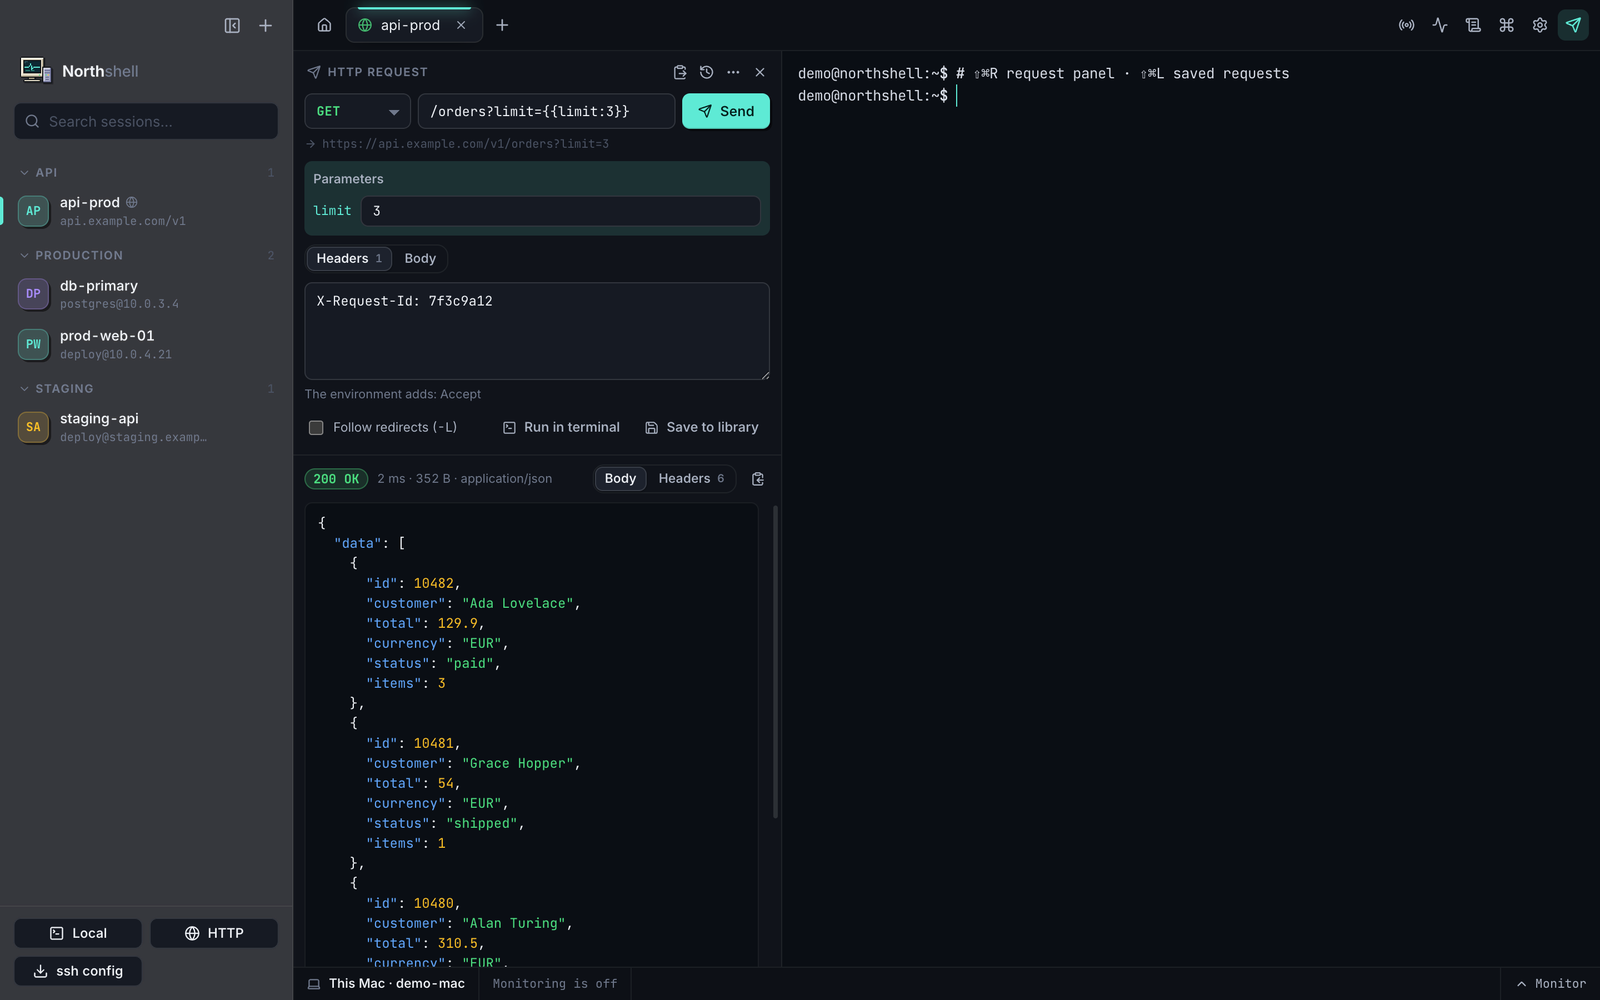
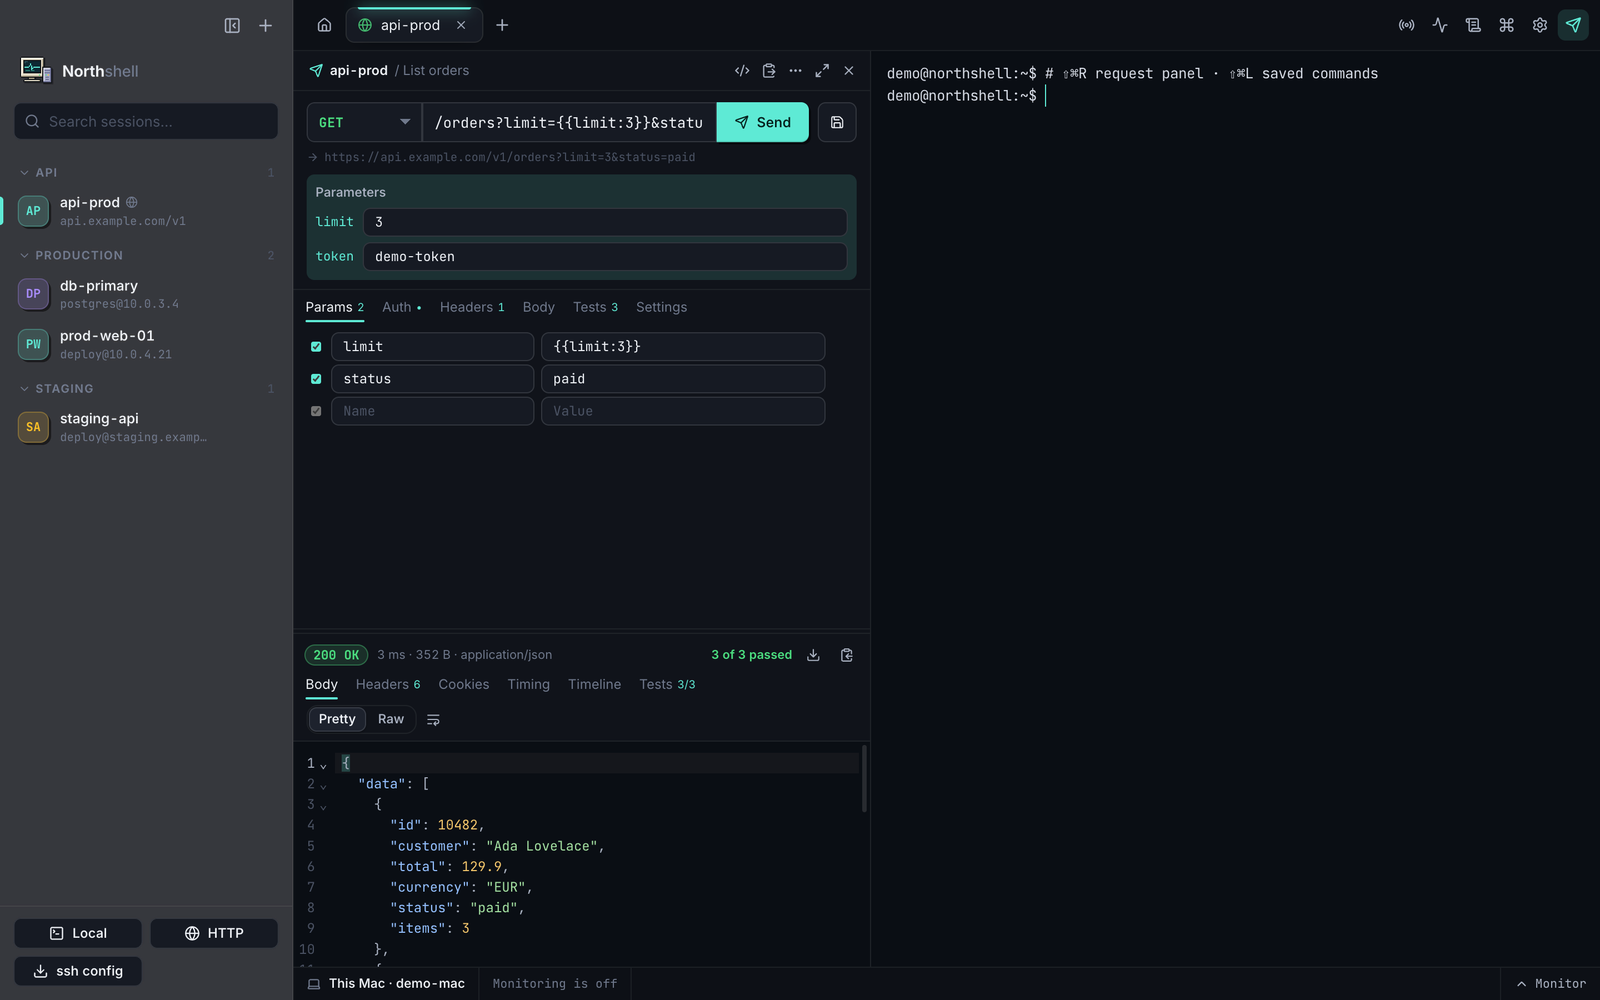
docs: README for 1.6.0 with a version history, new screenshots
- both READMEs describe the HTTP client and the monitor's new views and keep a
  version history built from the release notes
- e2e/feature-shots.mjs shows the monitor on made-up server numbers over a private
  sshd, and the HTTP workspace on seeded collections
- monitor cards: long mount points on their own line, nothing clipped when narrow

diff --git a/src/renderer/src/components/MonitorPanel.tsx b/src/renderer/src/components/MonitorPanel.tsx
@@ -12,6 +12,8 @@ import { MonitorExpanded } from './monitor/MonitorExpanded'
 import { TopCard } from './monitor/TopCard'
 import { Sparkline } from './Sparkline'
 
+const LONG_MOUNT = 8
+
 function Bar({ label, value, pct }: { label: string; value: string; pct: number }) {
   return (
     <div className={`bar-line ${levelClass(pct)}`}>
@@ -160,7 +162,7 @@ export function MonitorPanel() {
         </div>
         <Sparkline values={history.mem} max={100} height={42} color="var(--spark-2, var(--violet))" />
         {s.swapTotal > 0 && (
-          <Bar label={t('swap')} value={`${formatBytes(s.swapUsed)} / ${formatBytes(s.swapTotal)}`} pct={swapPct} />
+          <Bar label={t('swap')} value={formatBytes(s.swapUsed)} pct={swapPct} />
         )}
         <Bar label={t('memory')} value={formatPercent(memPct)} pct={memPct} />
         {pickedUsage && <UserLine user={pickedUsage.user}>{formatBytes(pickedUsage.mem)}</UserLine>}
@@ -247,7 +249,7 @@ export function MonitorPanel() {
         {s.disks.map((d) => {
           const pct = d.total > 0 ? (d.used / d.total) * 100 : 0
           return (
-            <div key={`${d.fs}${d.mount}`} className="mon-disk-row">
+            <div key={`${d.fs}${d.mount}`} className={`mon-disk-row ${d.mount.length > LONG_MOUNT ? 'stacked' : ''}`}>
               <Bar label={d.mount} value={`${formatBytes(d.used)} / ${formatBytes(d.total)}`} pct={pct} />
               {remote && <DiskOwnersLine monitorKey={monitorKey} mount={d.mount} state={owners?.[d.mount]} picked={picked} />}
             </div>

diff --git a/src/renderer/src/styles/monitor.css b/src/renderer/src/styles/monitor.css
@@ -9,8 +9,9 @@
 
 .mon-user-line {
   display: flex;
+  flex-wrap: wrap;
   align-items: center;
-  gap: 5px;
+  gap: 1px 5px;
   min-width: 0;
   padding: 3px 6px;
   border-radius: var(--radius-s);
@@ -26,16 +27,21 @@
 
 .mon-user-line b {
   margin-left: auto;
-  flex: none;
+  min-width: 0;
   font: 600 11px var(--font-mono);
   color: var(--text-0);
-  white-space: nowrap;
 }
 
 .mon-disk-row {
   display: flex;
   flex-direction: column;
   gap: 3px;
+}
+
+/* A long mount point gets its own line, or it would be cut down to "/…" next to the sizes. */
+.mon-disk-row.stacked .bar-line .top {
+  flex-direction: column;
+  gap: 1px;
 }
 
 .mon-link {
@@ -217,6 +223,10 @@
   align-items: center;
   gap: 8px;
   padding: 10px 20px;
+}
+
+.mon-toolbar .mon-user-select {
+  flex: 0 1 190px;
 }
 
 .mon-toolbar .segmented.sm button {

diff --git a/src/renderer/src/styles/panels.css b/src/renderer/src/styles/panels.css
@@ -317,8 +317,8 @@
   grid-template-columns: minmax(150px, 1.25fr) repeat(5, minmax(112px, 0.85fr)) minmax(150px, 1fr) minmax(250px, 1.45fr);
 }
 
-/* Eight cards are narrower: let "/ total" drop under the big number instead of being cut. */
-.monitor.has-gpu .mon-big {
+/* The cards are narrow: let "/ total" drop under the big number instead of being cut. */
+.monitor .mon-big {
   flex-wrap: wrap;
   row-gap: 4px;
   font-size: 23px;

diff --git a/README.md b/README.md
@@ -10,7 +10,7 @@ A free, open-source MobaXterm alternative for macOS: an SSH client and terminal 
 [![Platform](https://img.shields.io/badge/macOS-13%2B%20·%20Apple%20Silicon-555)](#requirements)
 [![License](https://img.shields.io/badge/license-MIT-555)](LICENSE)
 
-[Download](#installation) · [Features](#features) · [Screenshots](#screenshots) · [Getting started](#getting-started) · [Build from source](#building-from-source) · [Русский](README.ru.md)
+[Download](#installation) · [Features](#features) · [Screenshots](#screenshots) · [Getting started](#getting-started) · [Version history](#version-history) · [Build from source](#building-from-source) · [Русский](README.ru.md)
 
 <img src="docs/screenshots/main.png" alt="Northshell main window: sessions, SFTP browser, terminal, command library and server monitor" />
 
@@ -44,16 +44,23 @@ MobaXterm is a popular all-in-one SSH tool, but it only runs on Windows. Northsh
 
 <img src="docs/screenshots/command-library.png" width="720" alt="Command library panel next to the terminal: commands private to the connection and shared commands, with two of them already run" />
 
-**HTTP environments (curl)**
-- A connection type for APIs with no SSH at all: a local terminal prepared for repeated `curl` requests to one server.
-- `$BASE_URL` and `$TOKEN` (token kept in the Keychain) are set in the shell, and your default headers (e.g. `Authorization: Bearer $TOKEN`) are added to every `curl` automatically.
-- Optional `curl -k` for self-signed certificates; keep the environment's typical requests in its own section of the command library.
-- **HTTP request panel** (`⇧⌘R`): method, path, headers and body in a form instead of hand-written `curl` — `⌘↩` sends, and the response appears alongside with status, time, size, headers and highlighted JSON.
-- Paste a curl command (e.g. “Copy as cURL” from browser dev tools) into the address field and the form fills itself. `{{id}}` parameters are asked for right in the panel; a request can run in the terminal, be copied as curl or saved to the library and opened back in the form later.
+**HTTP client (like Postman and Insomnia, on top of curl)**
+- A connection type for APIs with no SSH at all: a request workspace that fills the window (`⇧⌘R` shows or hides it, one button puts the terminal back beside it). The terminal stays ready for hand-written `curl`: `$BASE_URL` and `$TOKEN` (token kept in the Keychain) are set, and your default headers are added to every `curl`.
+- **Requests:** query parameters, headers and form fields as tables with an on/off switch per row (or as plain text); **auth** — Bearer, Basic, API key in a header or the query; **body** — JSON, XML, text, urlencoded form, multipart form with files, a whole file, GraphQL with variables; a timeout, `-k` and redirects per request.
+- **Responses:** status, time and size, formatted body with folding and search (`⌘F`), raw view, preview of HTML (without scripts or external resources) and images, headers, cookies, a time breakdown (DNS, connect, TLS, waiting, download), curl's full log with credentials masked. Save the whole response to a file, whatever its size.
+- **Collections and history:** folders of saved requests (`⌘S`), kept per environment or shared; history you can search. Import **Postman** v2 and **Insomnia** collections, export to Postman.
+- **Variables:** `{{name}}` in any field, stored per environment, plus `{{$uuid}}`, `{{$timestamp}}`, `{{$isoTimestamp}}`, `{{$randomInt}}`. A value from a response can go into a variable — log in once, and the next requests use the token.
+- **Checks and runs:** status, time, size, header and JSON-path checks for each request, no scripting needed; run a whole folder in order and get a report.
+- **Cookies** are kept per environment like in a browser, and you can view and delete them. **Code** for curl, JavaScript fetch, Python requests and HTTPie; paste a curl command (e.g. “Copy as cURL” from dev tools) into the address field and the form fills itself.
+- The environment's headers and token go only to its own host; other hosts and redirects to them don't get them.
+
+<img src="docs/screenshots/http-workspace.png" width="720" alt="HTTP workspace: a collection of saved requests on the left, GET /orders with its query parameters, and the formatted JSON response with 3 of 3 checks passed" />
+
+<img src="docs/screenshots/http-timing.png" width="720" alt="HTTP workspace with environment variables on the left and the time breakdown of a response: DNS, connect, TLS, waiting and download" />
+
+<img src="docs/screenshots/http-request.png" width="720" alt="The request panel beside the terminal: the same request and response in a narrower column" />
 
 <img src="docs/screenshots/http-environment.png" width="720" alt="New HTTP environment dialog: base URL, token, curl headers and the SSH / HTTP switch" />
-
-<img src="docs/screenshots/http-request.png" width="720" alt="HTTP request panel: GET /orders with a {{limit}} parameter, the extra header and the highlighted JSON response next to the terminal" />
 
 **SFTP browser and editor**
 - File panel next to the terminal with breadcrumbs, sorting by name, size or date, and a resizable width.
@@ -64,12 +71,23 @@ MobaXterm is a popular all-in-one SSH tool, but it only runs on Windows. Northsh
 
 **Server monitoring**
 - Status bar with CPU, memory, video memory (GPU), disk, network, load, uptime and users for the active connection.
-- Monitor panel (`⇧⌘M`) with CPU, memory, video memory and network graphs, all disks, swap and top processes.
+- Monitor panel (`⇧⌘M`) with CPU, memory, video memory, network and **disk read/write speed** graphs, all disks and swap.
+- **Who is loading the host:** top users by CPU, RAM, disk or network right in the panel, and a user picker that shows that user's share on every card and their processes.
+- **Enlarge** (the ⤢ button) for an htop-like view: every process with sorting by any column, search, a process tree and the full command line; a table of users; and a disk page with the speed per device, who is reading and writing now, and **who takes up the space** on each volume.
+- Disk speed comes from kernel counters on every update (every 3 seconds by default), so short bursts aren't lost and it costs next to nothing. Details per process are collected only while the panel is open.
+- Space per user needs a walk over the files, so it runs when you press the button, at the lowest CPU and disk priority, and the result is kept with its time.
+- What's visible depends on the server: on Linux, reads and writes of other users' processes are visible to root only (the kernel's rule), so connect as root to see everyone; traffic per user is counted from TCP connections (`ss`), so UDP isn't in it; macOS has no per-process disk counters, so only its total speed shows.
 - Mac memory is counted like Activity Monitor's “Memory Used” (app + wired + compressed), the same for this Mac and for macOS servers.
 - Video memory: NVIDIA (`nvidia-smi`) and AMD (`amdgpu`) on Linux, and Mac GPUs. Apple Silicon shares memory with the CPU, so the GPU's share is macOS's estimate (⅔ of RAM up to 36 GB, ¾ above, or `iogpu.wired_limit_mb`), marked with “≈”.
 - No agent to install: statistics are read over the same SSH connection (Linux and macOS servers).
 
-<img src="docs/screenshots/monitor-gpu.png" width="720" alt="Monitor panel with the GPU card next to CPU and memory: Apple M1 Pro using 318 MB of about 11 GB of unified memory, and the same figure in the status bar" />
+<img src="docs/screenshots/monitor-users.png" width="720" alt="Monitor panel of a server: disk I/O card with read and write speed, volumes with their biggest owners, and users ranked by disk load" />
+
+| Who is loading the disk and who takes up the space | All processes, sorted like in htop |
+|---|---|
+| ![Disks view: speed per device, users by current reads and writes, users by space on each volume](docs/screenshots/monitor-disks.png) | ![Processes view: PID, user, CPU, memory, disk and network for every process, sorted by disk reads](docs/screenshots/monitor-processes.png) |
+
+<img src="docs/screenshots/monitor-gpu.png" width="720" alt="Monitor panel with the GPU card next to CPU and memory, and the same figure in the status bar" />
 
 **Appearance**
 - Six themes: Dark, Light, System, Visual Studio, MobaXterm and Windows 95.
@@ -156,7 +174,7 @@ Download the new DMG and drag Northshell into Applications again, replacing the 
 5. **Work with files.** Drag files from Finder onto the SFTP panel to upload, double-click a file to edit it, press `⌘S` to save. Type in the filter field and press Enter to search the whole folder tree.
 6. **Watch the server.** The status bar shows live statistics; click it or press `⇧⌘M` for the full monitor.
 7. **Save frequent commands.** Press `⇧⌘L` to open the command library, click **+**, and choose whether the command is shared or belongs to one connection. Double-click a command to run it.
-8. **Work with an HTTP API.** Click **HTTP** at the bottom of the sidebar (or `⌥⌘N`), enter a base URL, an optional token and headers, then **Save & open**. In the terminal run `curl $BASE_URL/health` — the headers are added for you.
+8. **Work with an HTTP API.** Click **HTTP** at the bottom of the sidebar (or `⌥⌘N`), enter a base URL, an optional token and headers, then **Save & open**. Type a path, press `⌘↩`, and `⌘S` saves the request to a collection. Have a Postman or Insomnia collection? Import it with the button above the list. In the terminal `curl $BASE_URL/health` works too, with the headers added for you.
 9. **Change the look.** Open **Settings → Appearance** (`⌘,`) to choose a theme and terminal colours.
 
 ## Keyboard shortcuts
@@ -167,7 +185,8 @@ Download the new DMG and drag Northshell into Applications again, replacing the 
 | New SSH session | `⌘N` |
 | New HTTP environment | `⌥⌘N` |
 | Command library | `⇧⌘L` |
-| HTTP request panel | `⇧⌘R` |
+| HTTP workspace | `⇧⌘R` |
+| Send the request / save it | `⌘↩` / `⌘S` |
 | Command palette | `⌘P` |
 | Close tab or editor | `⌘W` |
 | Switch tab | `⌘1` … `⌘9`, `⌃Tab`, `⌃⇧Tab` |
@@ -185,8 +204,10 @@ Download the new DMG and drag Northshell into Applications again, replacing the 
 - Remote commands for monitoring and search are fixed scripts with quoted arguments; a server-side search stops on its own after 13 seconds.
 - SFTP downloads never overwrite existing files and reject unsafe names; deleting a symlink never touches its target.
 - HTTP environments write their curl headers to a private temporary folder (owner-only permissions) that is deleted when the tab closes.
+- The environment's token never reaches the interface or curl's command line, and the request log masks credentials. Collections, variables and cookies are stored owner-only but **not encrypted**, so keep secrets in `$TOKEN`; a token typed into a form is saved as typed.
+- A collection file or a pasted curl command cannot choose a local file to send: the file has to be picked by hand.
 
-App data lives in `~/Library/Application Support/Northshell/` (`sessions.json`, `commands.json`, `settings.json`, `known_hosts.json`).
+App data lives in `~/Library/Application Support/Northshell/` (`sessions.json`, `commands.json`, `settings.json`, `known_hosts.json`, `http-workspace.json`, `http-cookies/`).
 
 ## Northshell and other SSH clients for Mac
 
@@ -211,7 +232,10 @@ Yes. It is open source under the MIT license, with no account, subscription or t
 The published build is for Apple Silicon. Intel Macs can build it from source; a universal build is not published yet.
 
 **Do I need to install anything on my servers?**
-No. Monitoring uses standard commands (`/proc` on Linux, `sysctl` and `vm_stat` on macOS) over the existing SSH connection. SFTP needs the usual `sftp-server`, which is part of OpenSSH.
+No. Monitoring uses standard commands (`/proc`, `ps` and `ss` on Linux; `sysctl`, `vm_stat` and `nettop` on macOS) over the existing SSH connection. SFTP needs the usual `sftp-server`, which is part of OpenSSH.
+
+**Does it replace Postman or Insomnia?**
+For everyday work with one API, yes: collections, variables, auth, every body type, checks, folder runs, cookies, and import of their collections. See [Limitations](#limitations) for what it doesn't do. Everything stays on your Mac, with no account.
 
 **Which authentication methods are supported?**
 Passwords, private keys (OpenSSH, with or without a passphrase), ssh-agent and keyboard-interactive prompts such as one-time codes. Hosts from `~/.ssh/config` can be imported.
@@ -230,6 +254,42 @@ The app is not notarized by Apple. See [First launch](#first-launch) for the one
 - Apple Silicon build only; not signed or notarized by Apple.
 - No X11 forwarding, RDP, VNC, serial connections, port forwarding or jump hosts yet.
 - Server monitoring supports Linux and macOS hosts; on BusyBox-only systems some values may be missing.
+- The HTTP client has checks and value capture instead of JavaScript scripts, and has no OAuth 2 sign-in flows, WebSocket or gRPC requests, mock servers or cloud sync.
+
+## Version history
+
+### 1.6.0 — 2026-11-05
+- **Disk speed:** reads and writes per host and device, with a graph in the monitor panel.
+- **Who is loading the host:** top users by CPU, RAM, disk and network, and a user picker in the monitor.
+- **Enlarged monitor:** an htop-like process table with sorting, search and a tree; a table of users; a disk page with current reads and writes per user and space per user on each volume.
+- **HTTP client on a par with Postman and Insomnia:** a full-window workspace, collections with folders, import from Postman and Insomnia, export to Postman, persistent history and variables, auth settings, every body type including multipart and GraphQL, cookies, checks and value capture, folder runs, a time breakdown, curl's log, HTML and image preview, saving responses, code for other tools.
+
+### 1.5.2 — 2026-11-05
+- `⌘A` selects the command you are typing (again: all output); `⌫` deletes it and typing replaces it, and a part selected with the mouse works the same way. `Ctrl+A` jumps to the line start again.
+
+### 1.5.1 — 2026-11-03
+- HTTP request panel (`⇧⌘R`): a form instead of hand-written curl, with the response next to the terminal; a pasted curl command fills the form.
+- Video memory in the status bar and the monitor: NVIDIA and AMD on Linux, the GPU of a Mac.
+- The SFTP panel follows `cd` in the terminal.
+- Fixed: macOS servers showed about 1.5 GB less memory than Activity Monitor.
+
+### 1.4.0 — 2026-10-16
+- Command library (`⇧⌘L`): shared and per-connection commands, `{{placeholders}}`, a plain `commands.json`, import and export.
+- HTTP environments: a local terminal with `$BASE_URL`, `$TOKEN` from the Keychain and default curl headers.
+
+### 1.3.0 — 2026-10-12
+- Termora is now Northshell; sessions and settings move over on first launch.
+- Installation guide, FAQ, comparison with other Mac SSH clients.
+
+### 1.2.0 — 2026-10-12
+- MobaXterm theme, output highlighting and an info box on connect.
+- A status bar that never clips, and icon-only buttons in narrow panels.
+
+### 1.1.0 — 2026-10-12
+- Visual Studio and Windows 95 themes, a theme picker with previews, hover tooltips with shortcuts, resizable side panels.
+
+### 1.0.0 — 2026-10-12
+- First release: saved sessions, password, key, agent and 2FA login, Keychain secrets, host key checks, terminal tabs with MultiExec, an SFTP browser with a built-in editor, server monitoring with no agent.
 
 ## Building from source
 
@@ -244,7 +304,7 @@ npm test         # unit tests
 npm run dist     # build the DMG into dist/
 ```
 
-End-to-end tests drive the built app with Playwright: run `npm run build && npm run e2e`. Set `XMT_E2E_SSH_HOST`, `XMT_E2E_SSH_PORT`, `XMT_E2E_SSH_USER` and `XMT_E2E_SSH_KEY` to include the SSH and SFTP scenarios.
+End-to-end tests drive the built app with Playwright: run `npm run build && npm run e2e`. Set `XMT_E2E_SSH_HOST`, `XMT_E2E_SSH_PORT`, `XMT_E2E_SSH_USER` and `XMT_E2E_SSH_KEY` to include the SSH and SFTP scenarios; with them `npm test` also runs the monitor against that server.
 
 Built with Electron, React, TypeScript, xterm.js, ssh2, node-pty and CodeMirror.
 
